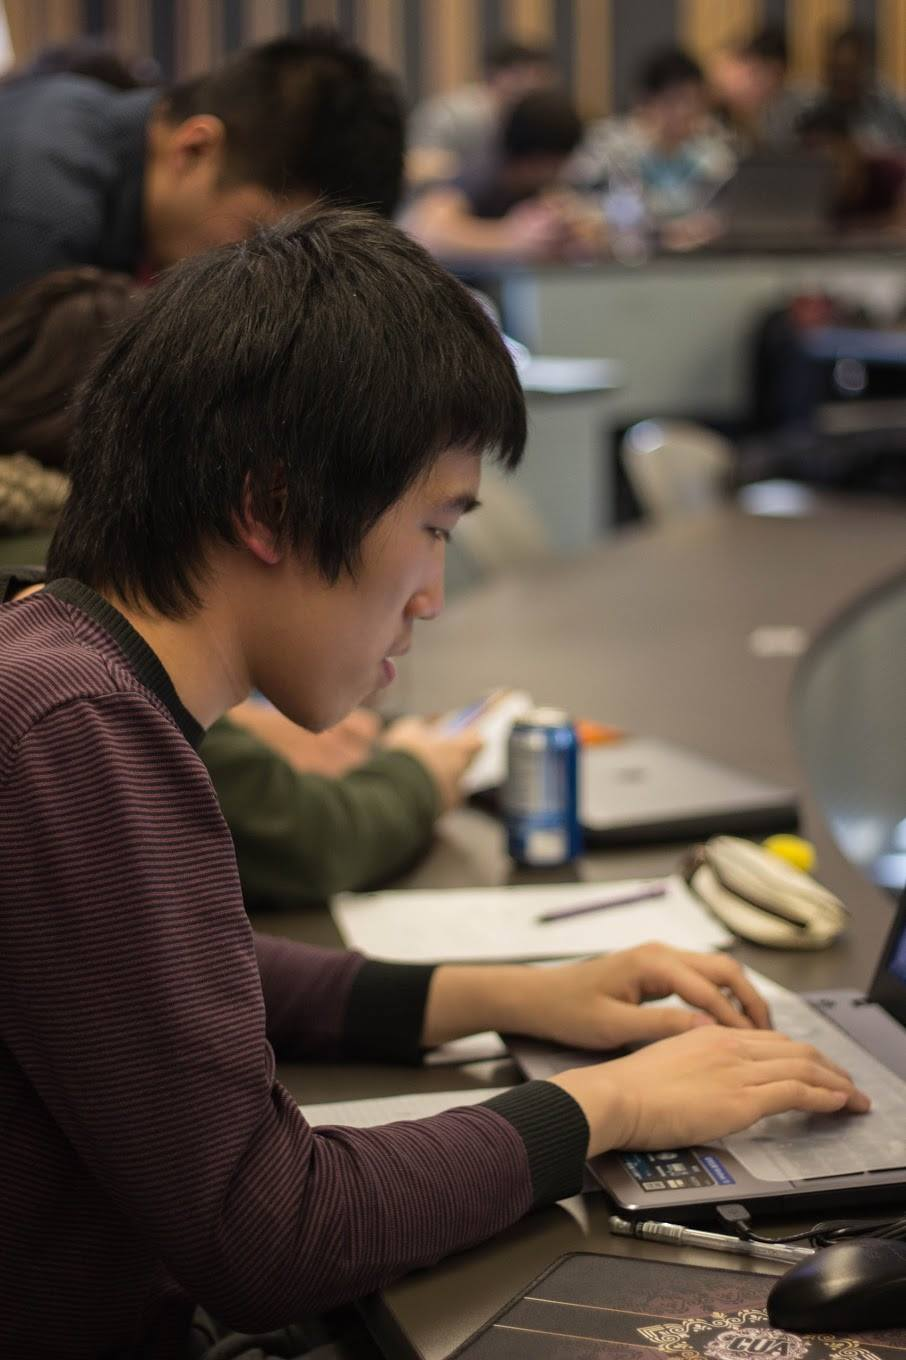
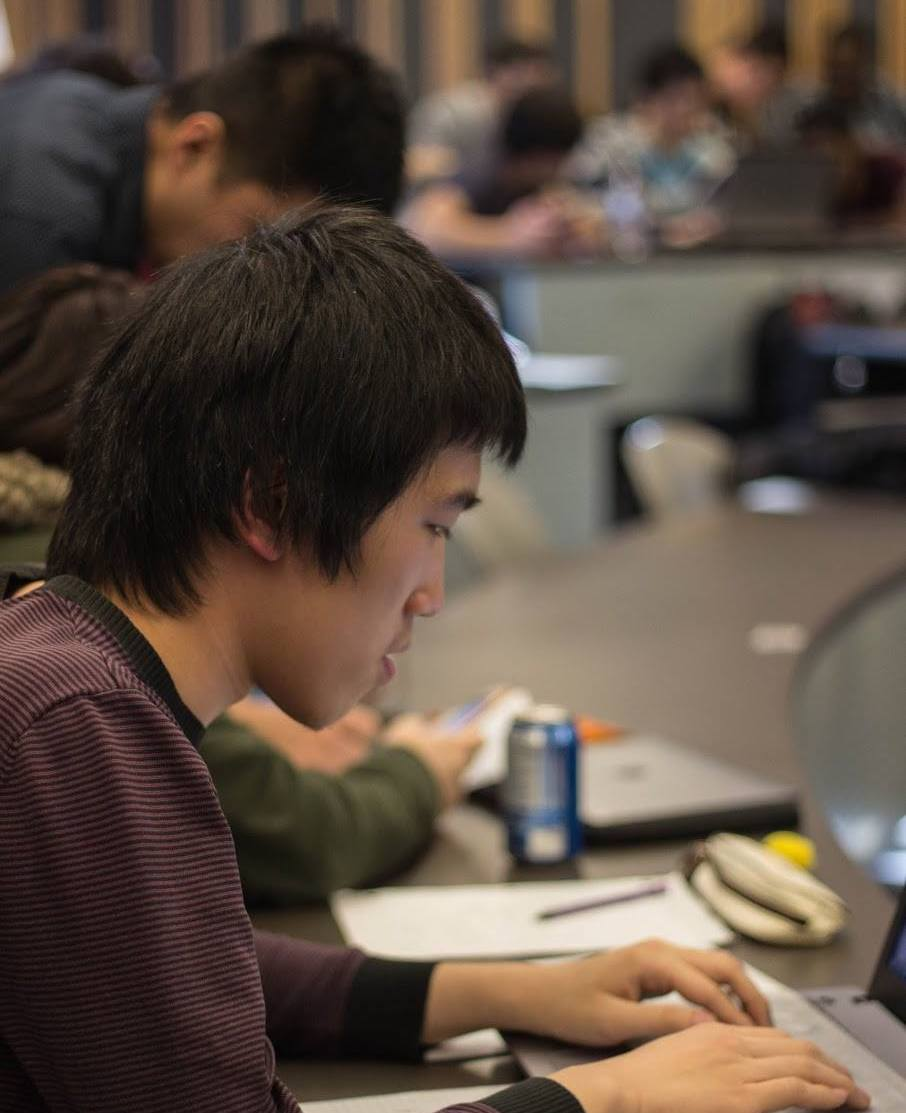
Fixed spacing issues and resized images in gallery

diff --git a/js/form/serialize.js b/js/form/serialize.js
@@ -1,0 +1,146 @@
+/**
+ * jQuery serializeObject
+ * @copyright 2014, macek <paulmacek@gmail.com>
+ * @link https://github.com/macek/jquery-serialize-object
+ * @license BSD
+ * @version 2.5.0
+ */
+(function(root, factory) {
+
+  // AMD
+  if (typeof define === "function" && define.amd) {
+    define(["exports", "jquery"], function(exports, $) {
+      return factory(exports, $);
+    });
+  }
+
+  // CommonJS
+  else if (typeof exports !== "undefined") {
+    var $ = require("jquery");
+    factory(exports, $);
+  }
+
+  // Browser
+  else {
+    factory(root, (root.jQuery || root.Zepto || root.ender || root.$));
+  }
+
+}(this, function(exports, $) {
+
+  var patterns = {
+    validate: /^[a-z_][a-z0-9_]*(?:\[(?:\d*|[a-z0-9_]+)\])*$/i,
+    key:      /[a-z0-9_]+|(?=\[\])/gi,
+    push:     /^$/,
+    fixed:    /^\d+$/,
+    named:    /^[a-z0-9_]+$/i
+  };
+
+  function FormSerializer(helper, $form) {
+
+    // private variables
+    var data     = {},
+        pushes   = {};
+
+    // private API
+    function build(base, key, value) {
+      base[key] = value;
+      return base;
+    }
+
+    function makeObject(root, value) {
+
+      var keys = root.match(patterns.key), k;
+
+      // nest, nest, ..., nest
+      while ((k = keys.pop()) !== undefined) {
+        // foo[]
+        if (patterns.push.test(k)) {
+          var idx = incrementPush(root.replace(/\[\]$/, ''));
+          value = build([], idx, value);
+        }
+
+        // foo[n]
+        else if (patterns.fixed.test(k)) {
+          value = build([], k, value);
+        }
+
+        // foo; foo[bar]
+        else if (patterns.named.test(k)) {
+          value = build({}, k, value);
+        }
+      }
+
+      return value;
+    }
+
+    function incrementPush(key) {
+      if (pushes[key] === undefined) {
+        pushes[key] = 0;
+      }
+      return pushes[key]++;
+    }
+
+    function encode(pair) {
+      switch ($('[name="' + pair.name + '"]', $form).attr("type")) {
+        case "checkbox":
+          return pair.value === "on" ? true : pair.value;
+        default:
+          return pair.value;
+      }
+    }
+
+    function addPair(pair) {
+      if (!patterns.validate.test(pair.name)) return this;
+      var obj = makeObject(pair.name, encode(pair));
+      data = helper.extend(true, data, obj);
+      return this;
+    }
+
+    function addPairs(pairs) {
+      if (!helper.isArray(pairs)) {
+        throw new Error("formSerializer.addPairs expects an Array");
+      }
+      for (var i=0, len=pairs.length; i<len; i++) {
+        this.addPair(pairs[i]);
+      }
+      return this;
+    }
+
+    function serialize() {
+      return data;
+    }
+
+    function serializeJSON() {
+      return JSON.stringify(serialize());
+    }
+
+    // public API
+    this.addPair = addPair;
+    this.addPairs = addPairs;
+    this.serialize = serialize;
+    this.serializeJSON = serializeJSON;
+  }
+
+  FormSerializer.patterns = patterns;
+
+  FormSerializer.serializeObject = function serializeObject() {
+    return new FormSerializer($, this).
+      addPairs(this.serializeArray()).
+      serialize();
+  };
+
+  FormSerializer.serializeJSON = function serializeJSON() {
+    return new FormSerializer($, this).
+      addPairs(this.serializeArray()).
+      serializeJSON();
+  };
+
+  if (typeof $.fn !== "undefined") {
+    $.fn.serializeObject = FormSerializer.serializeObject;
+    $.fn.serializeJSON   = FormSerializer.serializeJSON;
+  }
+
+  exports.FormSerializer = FormSerializer;
+
+  return FormSerializer;
+}));

diff --git a/index.html b/index.html
@@ -31,6 +31,10 @@
 
   </script>
 
+  <!-- HTML to google sheets scripts -->
+  <script src="/js/form/googleformscript.js"></script>
+  <script src="/js/form/serialize.js"></script>
+
   <!-- Import Google Fonts -->
   <link href="https://fonts.googleapis.com/css?family=Nunito+Sans:200,300,400,600,700,800,900" rel="stylesheet">
 
@@ -211,24 +215,24 @@
           &times;</button>
         </div>
         <div class="modal-body">
-          <form>
+          <form id="test-form">
             <div class="form-group">
-              <label for="exampleInputEmail1">Full Name</label>
-              <input type="text" class="form-control" placeholder="Full name">
+              <label>Full Name</label>
+              <input type="text" class="form-control" name="full_name" placeholder="Full name">
             </div>
             <div class="form-group">
-              <label for="exampleInputEmail1">Email address</label>
-              <input type="email" class="form-control" placeholder="Email">
+              <label>Email address</label>
+              <input type="email" class="form-control" name="email" placeholder="Email">
             </div>
             <div class="form-group">
-              <label for="exampleInputPassword1">UofT Student Number</label>
-              <input type="text" class="form-control" placeholder="Student number">
+              <label>UofT Student Number</label>
+              <input type="text" class="form-control" name="student_no" placeholder="Student number">
             </div>
             <!-- Do you already have a team? -->
             <!-- Which campus are you based at? -->
             <div class="form-group">
-              <label for="exampleFormControlSelect1">Select your Campus</label>
-              <select class="form-control">
+              <label>Select your Campus</label>
+              <select class="form-control" name="campus">
               <option>Scarborough</option>
               <option>St. George</option>
               <option>Mississauga</option>
@@ -238,7 +242,7 @@
               <input type="checkbox" class="form-check-input" id="exampleCheck1">
               <label class="form-check-label" for="exampleCheck1"><small id="emailHelp" class="form-text text-muted">By checking this button, you agree to all the <a href="">Terms and Conditions and Photo Release Form </a>of this contest</small></label>
             </div>
-            <button type="submit" class="btn btn-primary">Submit</button>
+            <button type="submit" class="btn btn-primary" id="submit-form">Submit</button>
           </form>
         </div>
       </div>

diff --git a/preview.html b/preview.html
@@ -93,29 +93,19 @@
     </div>
   </div>
 
-  <!--GALLERY-->
-  <div class="container text-center py-5" id="gallery">
+  <!--Gallery-->
+  <div class="container py-5" id="gallery">
     <div class="row">
       <div class="col-md-4">
-        <div class="image-fluid">
-          <img src="/img/gallery/pic_1.jpg" style="width:100%">
-        </div>
-        <div class="pt-4">
-          <img src="/img/gallery/pic_4.png" style="width:100%">
-        </div>
+        <img src="/img/gallery/pic_1.jpg" style="width:100%">
+        <img src="/img/gallery/pic_4.png" style="width:100%">
       </div>
       <div class="col-md-4">
-        <div>
-          <img src="/img/gallery/pic_2.jpg" style="width:99%">
-        </div>
+        <img src="/img/gallery/pic_2.jpg" style="width:100%">
       </div>
       <div class="col-md-4">
-        <div>
-          <img src="/img/gallery/pic_3.png" style="width:100%">
-        </div>
-        <div>
-          <img src="/img/gallery/pic_5.jpg" style="width:100%">
-        </div>
+        <img src="/img/gallery/pic_3.png" style="width:100%">
+        <img src="/img/gallery/pic_5.jpg" style="width:100%">
       </div>
     </div>
     <div class="row justify-content-center pt-4">

diff --git a/js/form/googleformscript.js b/js/form/googleformscript.js
@@ -1,0 +1,14 @@
+var $form = $('form#test-form'),
+    url = 'https://script.google.com/macros/s/AKfycbxtusyS26tTnCcgth8FRbHNJi46tLFkP01GbPmwXbUr9DIQsxI/exec'
+
+$('#submit-form').on('click', function(e) {
+  e.preventDefault();
+  var jqxhr = $.ajax({
+    url: url,
+    method: "GET",
+    dataType: "json",
+    data: $form.serializeObject()
+  }).success(
+    // do something
+  );
+})
